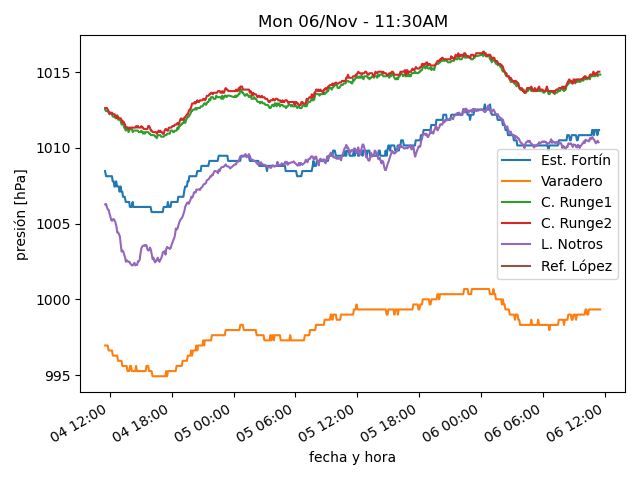
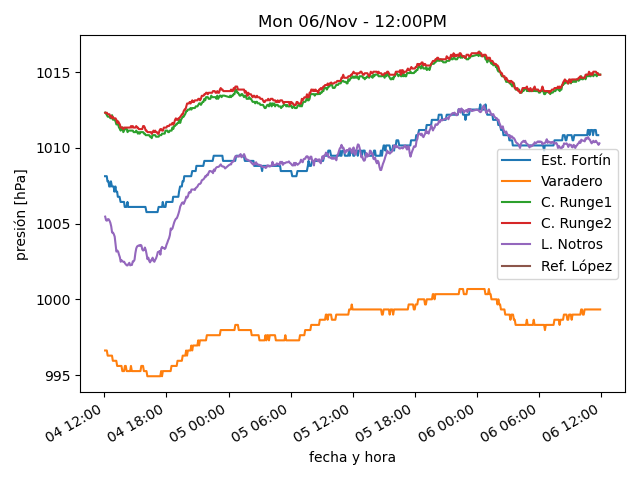
actualiza datos

diff --git a/estaciones/estacion1.html b/estaciones/estacion1.html
@@ -18,32 +18,32 @@
     </tr>
     <tr>
      <td class="stats_data">
-      11:23AM
+      11:43AM
      </td>
     </tr>
     <tr>
      <td class="stats_data">
-      11.6⁰C
+      11.3⁰C
      </td>
     </tr>
     <tr>
      <td class="stats_data">
-      6.4⁰C
+      6.9⁰C
      </td>
     </tr>
     <tr>
      <td class="stats_data">
-      71.0%
+      74.0%
      </td>
     </tr>
     <tr>
      <td class="stats_data">
-      1011.18hPa
+      1010.84hPa
      </td>
     </tr>
     <tr>
      <td class="stats_data">
-      9.5/16.1 km/hr S
+      6.4/13.7 km/hr SSW
      </td>
     </tr>
     <tr>
@@ -53,12 +53,12 @@
     </tr>
     <tr>
      <td class="stats_data">
-      1.8
+      2.2
      </td>
     </tr>
     <tr>
      <td class="stats_data">
-      234.0 W/m²
+      283.0 W/m²
      </td>
     </tr>
    </tbody>

diff --git a/estaciones/estacion2.html b/estaciones/estacion2.html
@@ -18,22 +18,22 @@
     </tr>
     <tr>
      <td class="stats_data">
-      11:29AM
+      11:54AM
      </td>
     </tr>
     <tr>
      <td class="stats_data">
-      9.8⁰C
+      9.9⁰C
      </td>
     </tr>
     <tr>
      <td class="stats_data">
-      7.9⁰C
+      8.5⁰C
      </td>
     </tr>
     <tr>
      <td class="stats_data">
-      88.3%
+      90.6%
      </td>
     </tr>
     <tr>
@@ -43,7 +43,7 @@
     </tr>
     <tr>
      <td class="stats_data">
-      7.1/7.9 km/hr WNW
+      6.3/6.9 km/hr WNW
      </td>
     </tr>
     <tr>
@@ -53,12 +53,12 @@
     </tr>
     <tr>
      <td class="stats_data">
-      2.0
+      3.0
      </td>
     </tr>
     <tr>
      <td class="stats_data">
-      263.8 W/m²
+      373.0 W/m²
      </td>
     </tr>
    </tbody>

diff --git a/estaciones/estacion4.html b/estaciones/estacion4.html
@@ -18,32 +18,32 @@
     </tr>
     <tr>
      <td class="stats_data">
-      11:24AM
+      11:54AM
      </td>
     </tr>
     <tr>
      <td class="stats_data">
-      9.9⁰C
+      10.6⁰C
      </td>
     </tr>
     <tr>
      <td class="stats_data">
-      7.1⁰C
+      8.1⁰C
      </td>
     </tr>
     <tr>
      <td class="stats_data">
-      82.8%
+      84.1%
      </td>
     </tr>
     <tr>
      <td class="stats_data">
-      1012.02hPa
+      1011.82hPa
      </td>
     </tr>
     <tr>
      <td class="stats_data">
-      0.7/1.3 km/hr SE
+      0.5/0.9 km/hr WNW
      </td>
     </tr>
     <tr>
@@ -58,7 +58,7 @@
     </tr>
     <tr>
      <td class="stats_data">
-      225.0 W/m²
+      243.2 W/m²
      </td>
     </tr>
    </tbody>

diff --git a/estaciones/estacion3.html b/estaciones/estacion3.html
@@ -18,22 +18,22 @@
     </tr>
     <tr>
      <td class="stats_data">
-      11:29AM
+      11:54AM
      </td>
     </tr>
     <tr>
      <td class="stats_data">
-      9.2⁰C
+      9.8⁰C
      </td>
     </tr>
     <tr>
      <td class="stats_data">
-      7.3⁰C
+      8.0⁰C
      </td>
     </tr>
     <tr>
      <td class="stats_data">
-      88.5%
+      89.0%
      </td>
     </tr>
     <tr>
@@ -43,7 +43,7 @@
     </tr>
     <tr>
      <td class="stats_data">
-      2.5/3.3 km/hr WNW
+      3.1/4.0 km/hr WNW
      </td>
     </tr>
     <tr>
@@ -58,7 +58,7 @@
     </tr>
     <tr>
      <td class="stats_data">
-      320.1 W/m²
+      290.2 W/m²
      </td>
     </tr>
    </tbody>

diff --git a/estaciones/estacion5.html b/estaciones/estacion5.html
@@ -18,27 +18,27 @@
     </tr>
     <tr>
      <td class="stats_data">
-      11:20AM
+      11:50AM
      </td>
     </tr>
     <tr>
      <td class="stats_data">
-      10.3⁰C
+      11.2⁰C
      </td>
     </tr>
     <tr>
      <td class="stats_data">
-      8.2⁰C
+      8.8⁰C
      </td>
     </tr>
     <tr>
      <td class="stats_data">
-      87.0%
+      85.0%
      </td>
     </tr>
     <tr>
      <td class="stats_data">
-      1012.94hPa
+      1012.87hPa
      </td>
     </tr>
     <tr>
@@ -48,7 +48,7 @@
     </tr>
     <tr>
      <td class="stats_data">
-      0.51 / 0.25 mm
+      0.76 / 0.51 mm
      </td>
     </tr>
     <tr>
